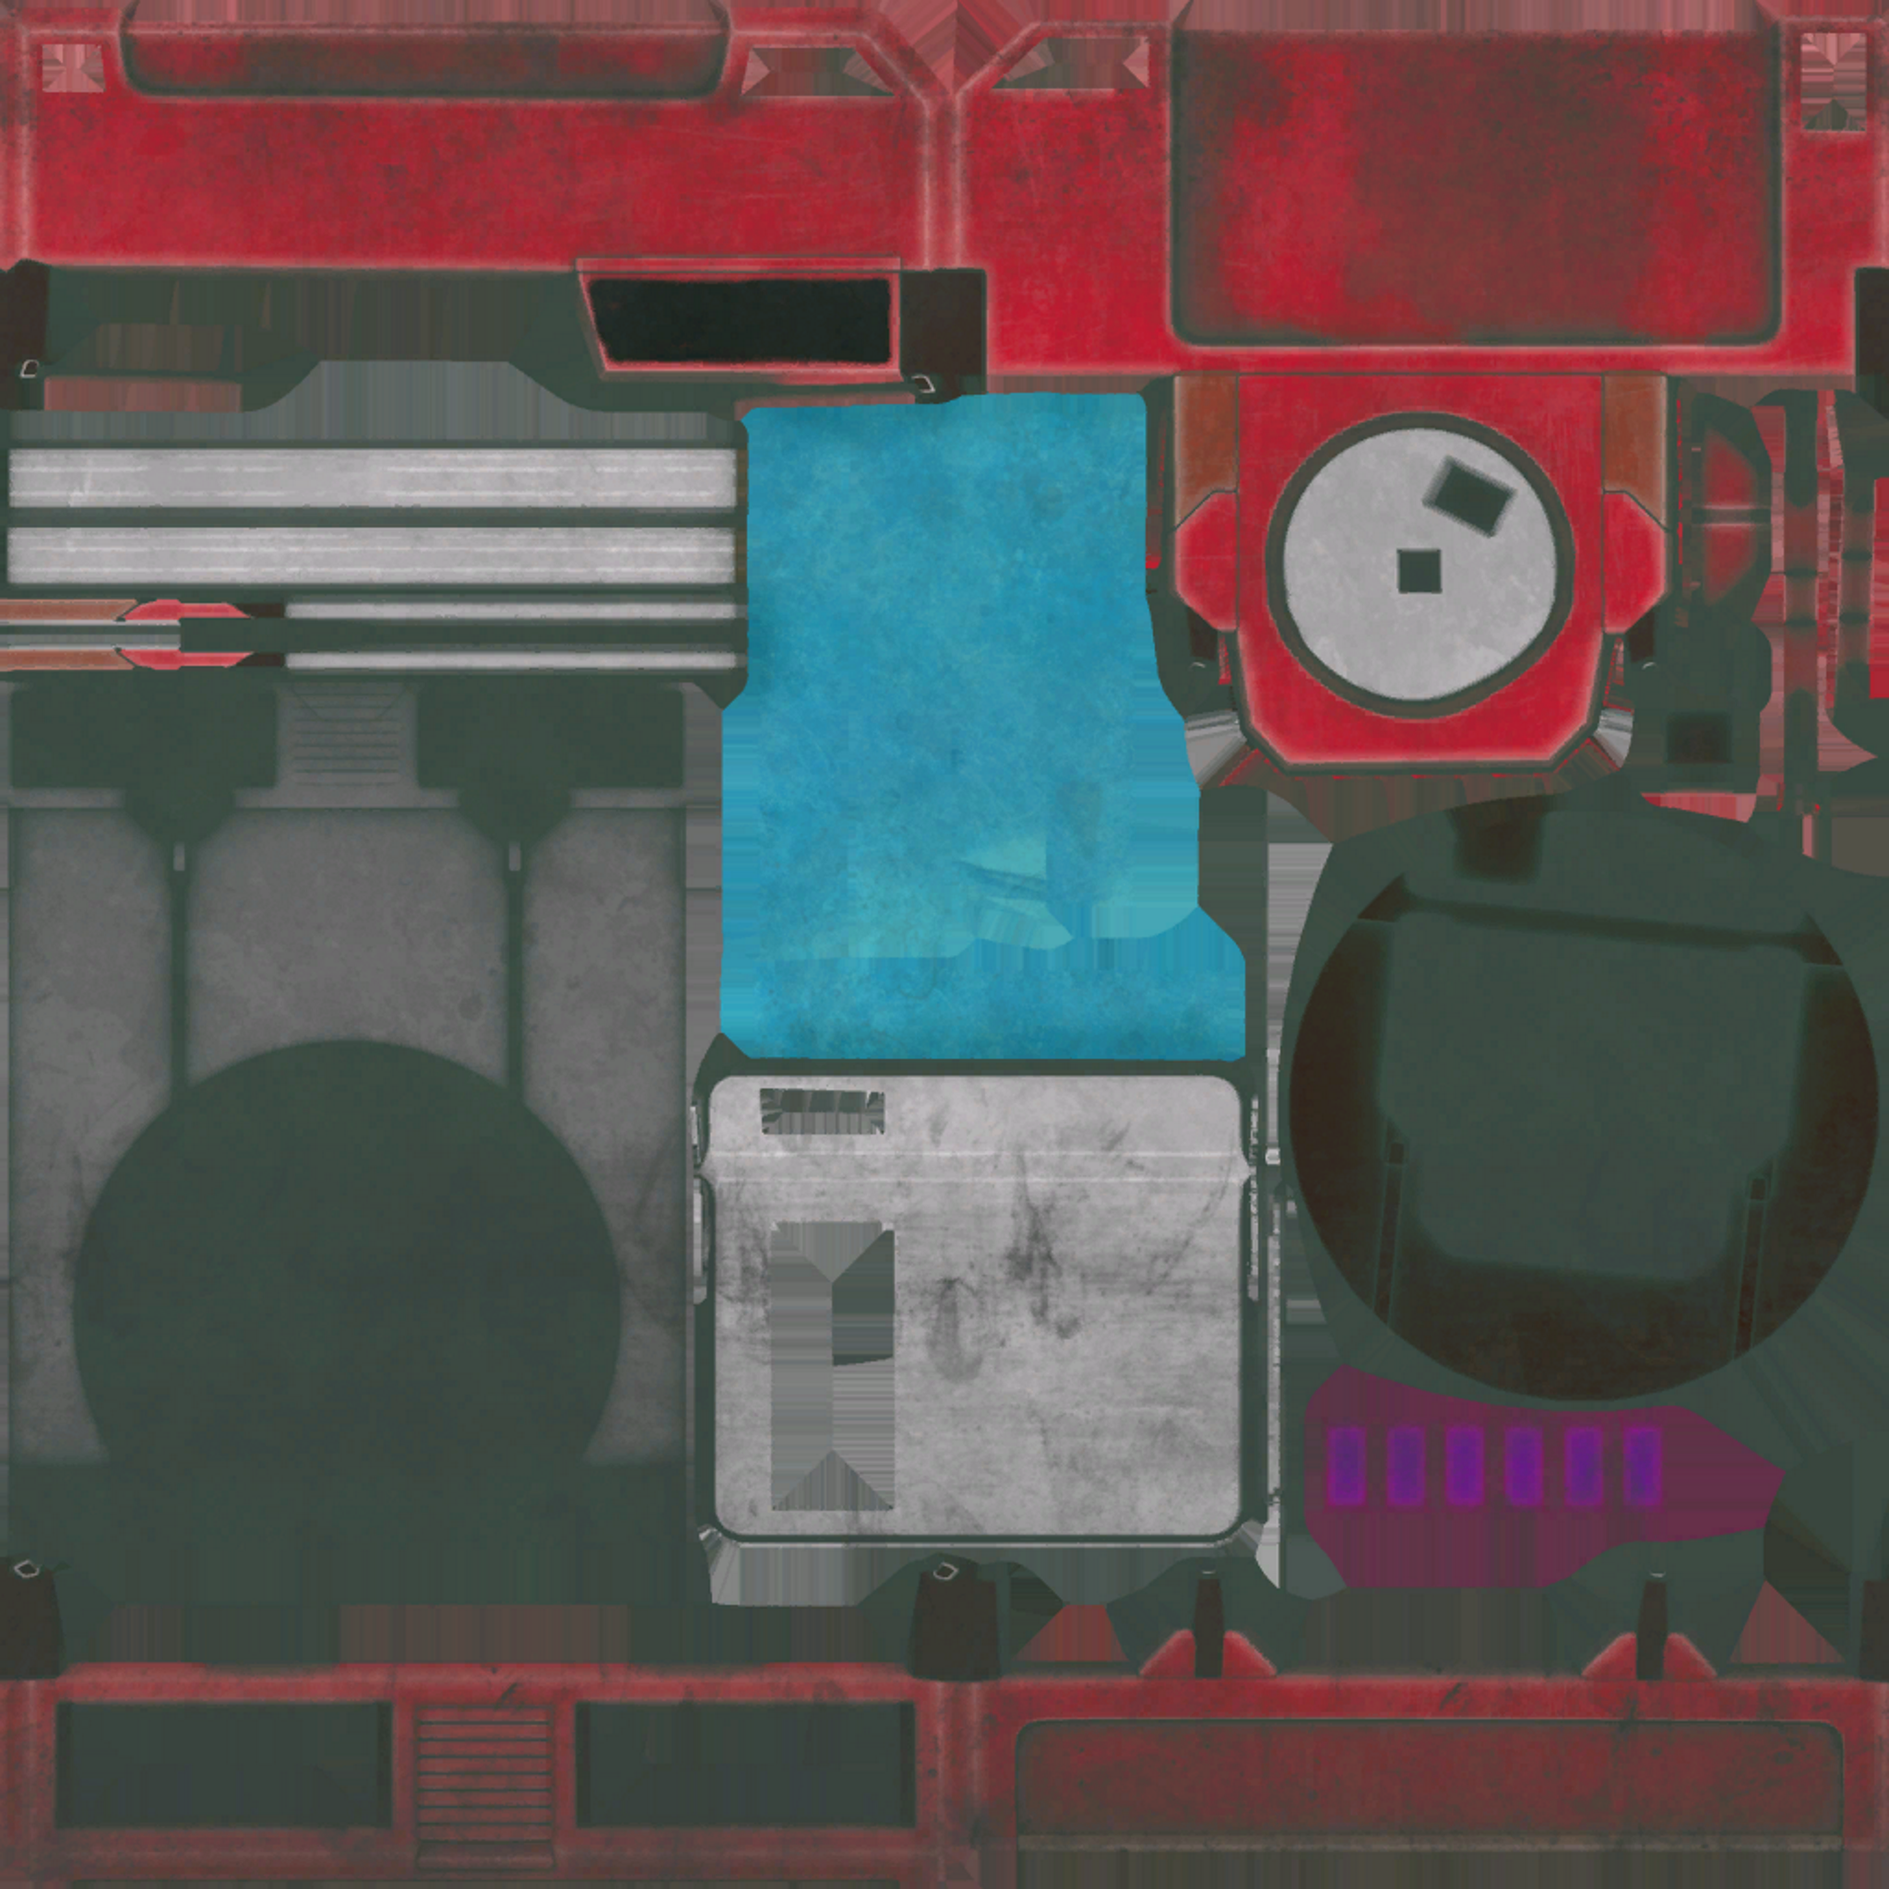
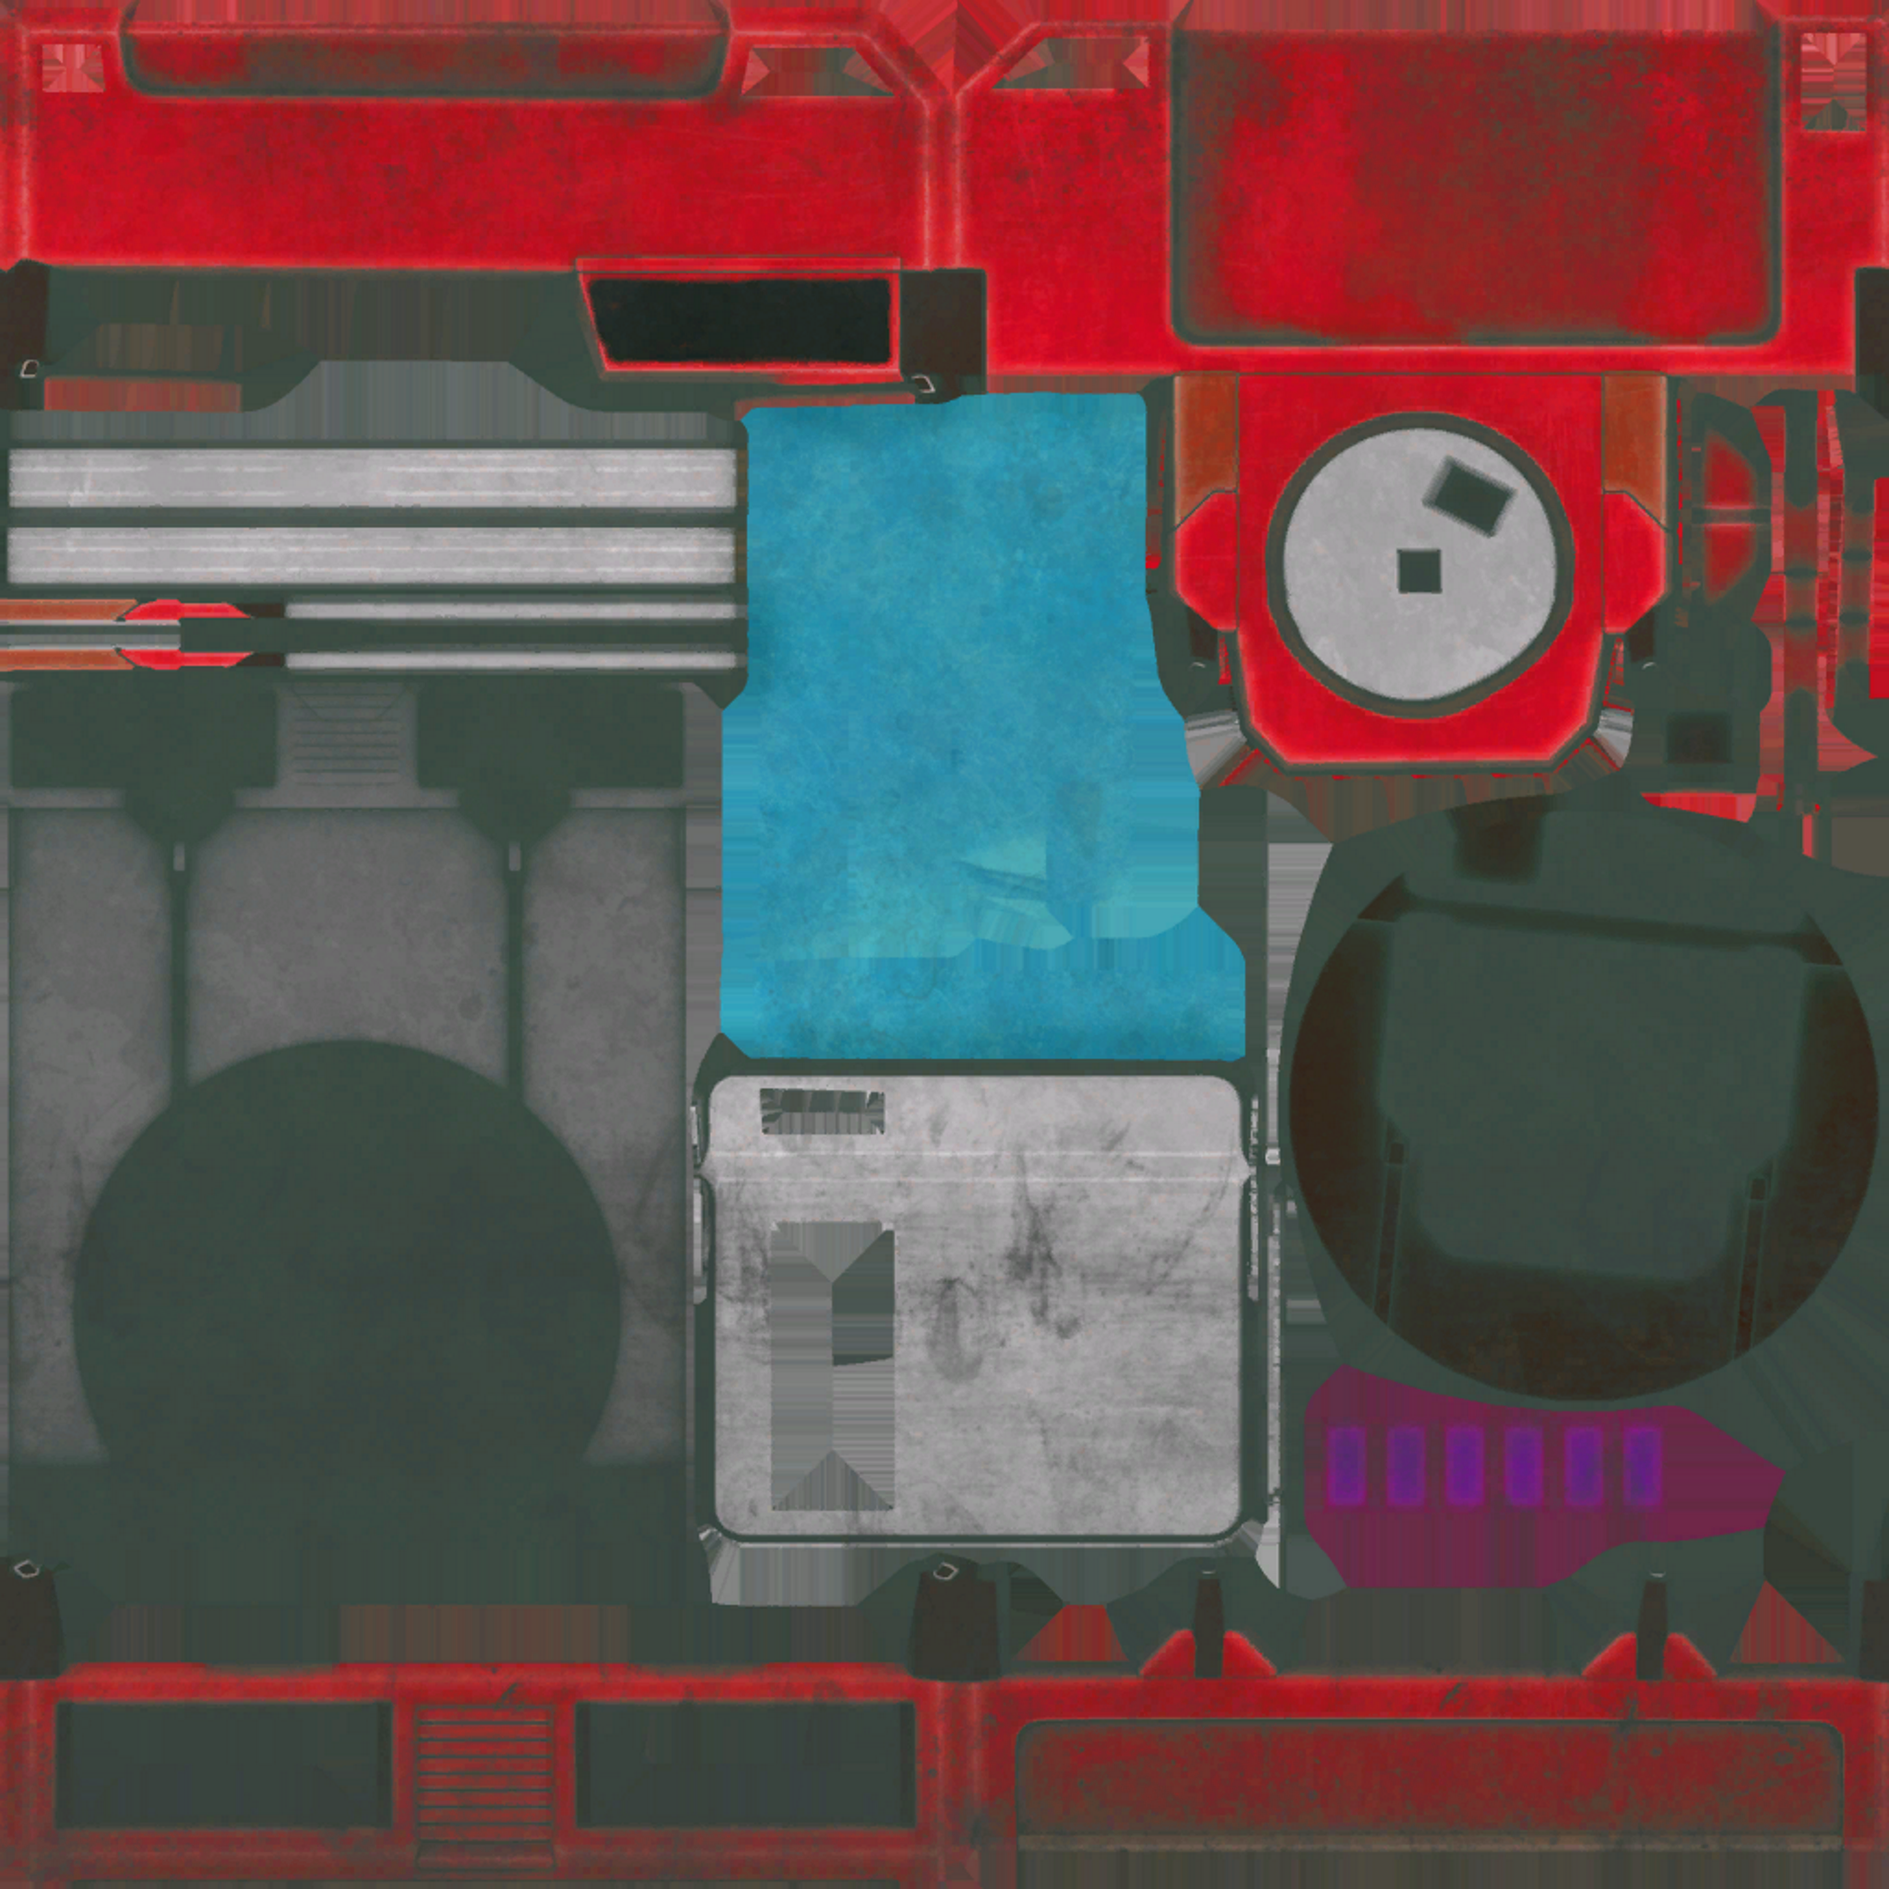
quest fixes and rare card appearances

diff --git a/cards/RareDiscCardAppearance.cs b/cards/RareDiscCardAppearance.cs
@@ -1,4 +1,5 @@
 using System;
+using System.Collections.Generic;
 using DiskCardGame;
 using InscryptionAPI.Card;
 using InscryptionAPI.Helpers;
@@ -9,10 +10,127 @@ namespace Infiniscryption.P03KayceeRun.Cards
     public class RareDiscCardAppearance : EmissiveDiscBorderBase
     {
         public static Texture2D RareTexture { get; private set; }
+        public static Texture2D AltRareTexture { get; private set; }
+        private static Texture2D OriginalRareTexture { get; set; }
+        private Texture2D currentRareTexture { get; set; }
 
-        protected override Color EmissionColor => GameColors.Instance.darkRed;
-        protected Color PortraitColor => GameColors.Instance.red;
-        protected override float Intensity => 0.25f;
+        private const string RARE_BORDER_KEY = "rareborder=[";
+        private const string RARE_PORTRAIT_KEY = "rareportrait=[";
+        private static Dictionary<string, Color?> configColors = new ();
+
+        private void CalcRareTexture()
+        {
+            float red = ColorDistance(GameColors.Instance.darkRed, this.EmissionColor);
+            float gold = ColorDistance(GameColors.Instance.darkGold, this.EmissionColor);
+            float blue = ColorDistance(GameColors.Instance.blue, this.EmissionColor);
+            float min = Mathf.Min(red, gold, blue);
+
+            if (red == min)
+                currentRareTexture = AltRareTexture;
+            else if (gold == min)
+                currentRareTexture = RareTexture;
+            else
+                currentRareTexture = OriginalRareTexture;
+        }
+
+        private static float ColorDistance(Color a, Color b)
+        {
+            float fbar = 0.5f * ((float)a.r + (float)b.r);
+            float deltar = (float)(a.r - b.r);
+            float deltag = (float)(a.g - b.g);
+            float deltab = (float)(a.b - b.b);
+            if (fbar < 128)
+                return Mathf.Sqrt(2 * deltar * deltar + 4 * deltag * deltag + 3 * deltab * deltab);
+            else
+                return Mathf.Sqrt(3 * deltar * deltar + 4 * deltag * deltag + 2 * deltab * deltab);
+        }
+
+        private static Color? GetColorFromConfig(string key)
+        {
+            if (configColors.ContainsKey(key))
+                return configColors[key];
+
+            try
+            {
+                int start = P03Plugin.Instance.DebugCode.ToLowerInvariant().IndexOf(key) + key.Length;
+                int end = P03Plugin.Instance.DebugCode.ToLowerInvariant().IndexOf("]", start);
+                string colorKey = P03Plugin.Instance.DebugCode.ToLowerInvariant().Substring(start, end-start);
+                string[] keyComponents = colorKey.Split(',');
+                if (keyComponents.Length == 3)
+                    configColors[key] = new Color(float.Parse(keyComponents[0]), float.Parse(keyComponents[1]), float.Parse(keyComponents[2]));
+                else if (keyComponents.Length == 4)
+                    configColors[key] = new Color(float.Parse(keyComponents[0]), float.Parse(keyComponents[1]), float.Parse(keyComponents[2]), float.Parse(keyComponents[3]));
+                else
+                    configColors[key] = null;
+            } 
+            catch 
+            {
+                configColors[key] = null;
+            }
+
+            return configColors[key];
+        }
+
+        private Color? overrideColor = null;
+
+        [SerializeField]
+        public override Color EmissionColor
+        {
+            get
+            {
+                if (overrideColor.HasValue)
+                    return overrideColor.Value;
+                else if (GetColorFromConfig(RARE_BORDER_KEY).HasValue)
+                    return GetColorFromConfig(RARE_BORDER_KEY).Value;
+                else if (P03Plugin.Instance.DebugCode.ToLowerInvariant().Contains("red"))
+                    return GameColors.Instance.darkRed;
+                else
+                    return GameColors.Instance.darkGold;
+            }
+            set
+            {
+                overrideColor = value;
+                CalcRareTexture();
+                this.ApplyAppearance();
+                this.Card.RenderCard();
+            }
+        }
+
+        private Color? overridePortraitColor = null;
+
+        [SerializeField]
+        public Color PortraitColor
+        {
+            get
+            {
+                if (overridePortraitColor.HasValue)
+                    return overridePortraitColor.Value;
+                else if (GetColorFromConfig(RARE_PORTRAIT_KEY).HasValue)
+                    return GetColorFromConfig(RARE_PORTRAIT_KEY).Value;
+                else if (P03Plugin.Instance.DebugCode.ToLowerInvariant().Contains("red"))
+                    return GameColors.Instance.glowRed;
+                else
+                    return GameColors.Instance.blue;
+            }
+            set
+            {
+                overridePortraitColor = value;
+                this.ApplyAppearance();
+                this.Card.RenderCard();
+            }
+        }
+
+        [SerializeField]
+        public override float Intensity
+        { 
+            get => base.Intensity;
+            set
+            {
+                base.Intensity = value;
+                this.ApplyAppearance();
+                this.Card.RenderCard();
+            }
+        }
 
         public static CardAppearanceBehaviour.Appearance ID { get; private set; }
 
@@ -22,10 +140,14 @@ namespace Infiniscryption.P03KayceeRun.Cards
 
             // I'm going to manually load this texture; it seems to have some issues
             RareTexture = new Texture2D(2, 2, TextureFormat.DXT1, false);
-            
-            byte[] imgBytes = TextureHelper.GetResourceBytes("FloppyDisc_AlbedoTransparency_Red_2048.png", typeof(RareDiscCardAppearance).Assembly);
+            byte[] imgBytes = TextureHelper.GetResourceBytes("FloppyDisc_AlbedoTransparency_Gold_2048.png", typeof(RareDiscCardAppearance).Assembly);
             bool isLoaded = RareTexture.LoadImage(imgBytes);
             RareTexture.filterMode = FilterMode.Point;
+
+            AltRareTexture = new Texture2D(2, 2, TextureFormat.DXT1, false);
+            imgBytes = TextureHelper.GetResourceBytes("FloppyDisc_AlbedoTransparency_Red_2048.png", typeof(RareDiscCardAppearance).Assembly);
+            isLoaded = AltRareTexture.LoadImage(imgBytes);
+            AltRareTexture.filterMode = FilterMode.Point;
         }
 
         public override void ApplyAppearance()
@@ -35,8 +157,14 @@ namespace Infiniscryption.P03KayceeRun.Cards
             {
                 try
                 {
+                    if (OriginalRareTexture == null)
+                        OriginalRareTexture = renderer.material.GetTexture("_MainTex") as Texture2D;
+
+                    if (currentRareTexture == null)
+                        CalcRareTexture();
+
                     if (renderer.material.name.ToLowerInvariant().Contains("floppydisc_albedo"))
-                        renderer.material.SetTexture("_MainTex", RareTexture);
+                        renderer.material.SetTexture("_MainTex", currentRareTexture);
                 }
                 catch (Exception ex)
                 {
@@ -44,12 +172,14 @@ namespace Infiniscryption.P03KayceeRun.Cards
                 }
             }
 
-            base.ApplyAppearance();
-
 			this.Card.RenderInfo.portraitColor = this.PortraitColor;
 
             if (this.Card.StatsLayer is DiskRenderStatsLayer drsl)
                 drsl.lightColor = this.PortraitColor;
+
+            
+
+            base.ApplyAppearance();
         }
     }
 }

diff --git a/patchers/AscensionSaveData.cs b/patchers/AscensionSaveData.cs
@@ -326,8 +326,8 @@ namespace Infiniscryption.P03KayceeRun.Patchers
                 // __instance.deck.AddCard(CardLoader.GetCardByName(CustomCards.UNC_TOKEN));
                 // __instance.deck.AddCard(CardLoader.GetCardByName(CustomCards.UNC_TOKEN));
 
-                
-                __instance.deck.AddCard(CardLoader.GetCardByName(CustomCards.RARE_DRAFT_TOKEN));
+                if (P03Plugin.Instance.DebugCode.ToLowerInvariant().Contains("rare"))
+                    __instance.deck.AddCard(CardLoader.GetCardByName(CustomCards.RARE_DRAFT_TOKEN));
 
                 // __instance.deck.AddCard(CardLoader.GetCardByName(CustomCards.RARE_DRAFT_TOKEN));
                 // __instance.deck.AddCard(CardLoader.GetCardByName(CustomCards.RARE_DRAFT_TOKEN));

diff --git a/quests/DefaultQuestDefinitions.cs b/quests/DefaultQuestDefinitions.cs
@@ -78,7 +78,8 @@ namespace Infiniscryption.P03KayceeRun.Quests
             // BrokenGeneratorQuest = 10,
 
             // Tipped Scales
-            TippedScales = QuestManager.Add(P03Plugin.PluginGuid, "Tipped Scales");
+            TippedScales = QuestManager.Add(P03Plugin.PluginGuid, "Tipped Scales")
+                                .SetGenerateCondition(() => EventManagement.CompletedZones.Count <= 2);
             TippedScales.AddDialogueState("TOO EASY...", "P03TooEasyQuest")
                         .AddDialogueState("TOO EASY...", "P03TooEasyAccepted")
                         .AddDefaultActiveState("KEEP GOING...", "P03TooEasyInProgress", threshold:5)

diff --git a/cards/EmissiveDiscBorderBase.cs b/cards/EmissiveDiscBorderBase.cs
@@ -6,8 +6,8 @@ namespace Infiniscryption.P03KayceeRun.Cards
 {
     public abstract class EmissiveDiscBorderBase : CardAppearanceBehaviour
     {
-        protected virtual Color EmissionColor => GameColors.Instance.blue;
-        protected virtual float Intensity => 0.5f;
+        public virtual Color EmissionColor { get; set; } = GameColors.Instance.blue;
+        public virtual float Intensity {get; set; } = 0.5f;
 
         internal static readonly string[] GameObjectPaths = new string[]
         {

diff --git a/quests/QuestReward.cs b/quests/QuestReward.cs
@@ -116,8 +116,10 @@ namespace Infiniscryption.P03KayceeRun.Quests
     {
         protected override IEnumerator DoCardAction(SelectableCard card, CardInfo info)
         {
+            yield return new WaitForSeconds(0.75f);
             Part3SaveData.Data.deck.RemoveCardByName(this.CardName);
             card.Anim.PlayPermaDeathAnimation();
+            yield return new WaitForSeconds(0.75f);
             yield break;
         }
 

diff --git a/cards/GooCardAppearance.cs b/cards/GooCardAppearance.cs
@@ -8,7 +8,7 @@ namespace Infiniscryption.P03KayceeRun.Cards
     {
         public static CardAppearanceBehaviour.Appearance ID { get; private set; }
 
-        protected override Color EmissionColor { get { return GameColors.Instance.limeGreen; } }
+        public override Color EmissionColor { get { return GameColors.Instance.limeGreen; } }
 
         static GooDiscCardAppearance()
         {

diff --git a/QuestAPI.md b/QuestAPI.md
@@ -161,3 +161,39 @@ You can also add additional criteria for your quest to be selected, using the `S
 #### "Must Be Generated" Quests
 
 Additionally, some quests *must* be generated. Some of the game's built-in secret quests are like this, but generally this is reserved for quests which are currently active. This could be a single-part quest that never finished, or a multi-part quest where the first part did complete and the second part needs to be generated.
+
+## Another Example
+
+Just to help with understanding the API: here is another example of another quest. 
+If the player takes the quest on, they start each battle by taking one damage until they've won five battles like this.
+The quest itself just tracks when the default counter has reached 5...
+```
+TippedScales = QuestManager.Add(P03Plugin.PluginGuid, "Tipped Scales")
+                    .SetGenerateCondition(() => EventManagement.CompletedZones.Count <= 2);
+TippedScales.AddDialogueState("TOO EASY...", "P03TooEasyQuest")
+            .AddDialogueState("TOO EASY...", "P03TooEasyAccepted")
+            .AddDefaultActiveState("KEEP GOING...", "P03TooEasyInProgress", threshold:5)
+            .AddDialogueState("IMPRESSIVE...", "P03TooEasyComplete")
+            .AddGainAbilitiesReward(1, Ability.DrawCopyOnDeath);
+```
+
+...then we have to write patches for the game to make the rest of the quest work. 
+Not all of those patches are shown here, but here's a simple one to show how we engage with the quest to see if it is active by 
+checking the `IsDefaultActive` helper:
+
+```
+[HarmonyPatch(typeof(TurnManager), nameof(TurnManager.SetupPhase))]
+[HarmonyPostfix]
+private static IEnumerator TippedScalesQuest(IEnumerator sequence)
+{
+    yield return sequence;
+
+    if (SaveFile.IsAscension)
+    {
+        if (MyQuests.TippedScales.IsDefaultActive())
+        {
+            yield return LifeManager.Instance.ShowDamageSequence(1, 1, true, 0.125f, null, 0f, false);
+        }
+    }
+}
+```
